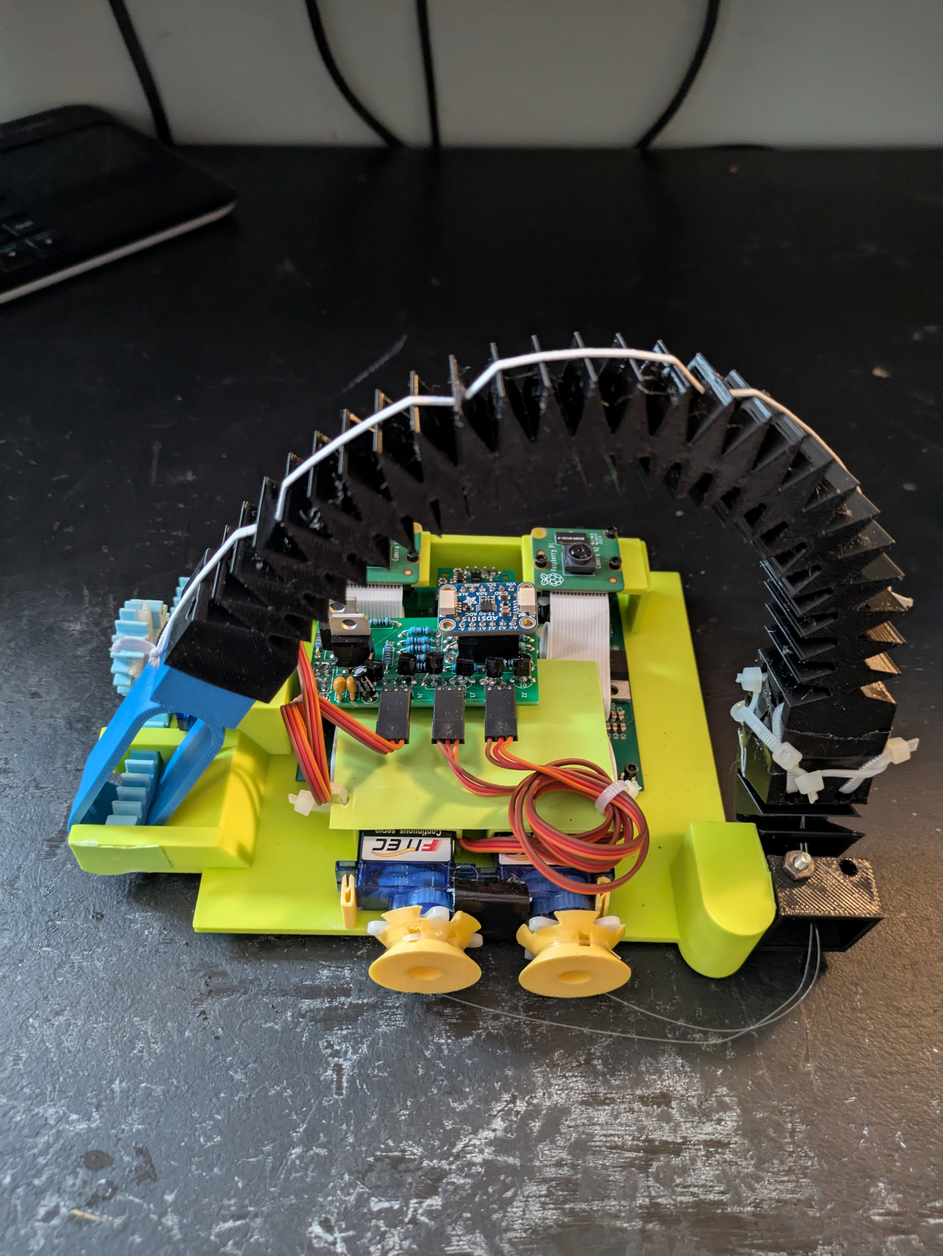
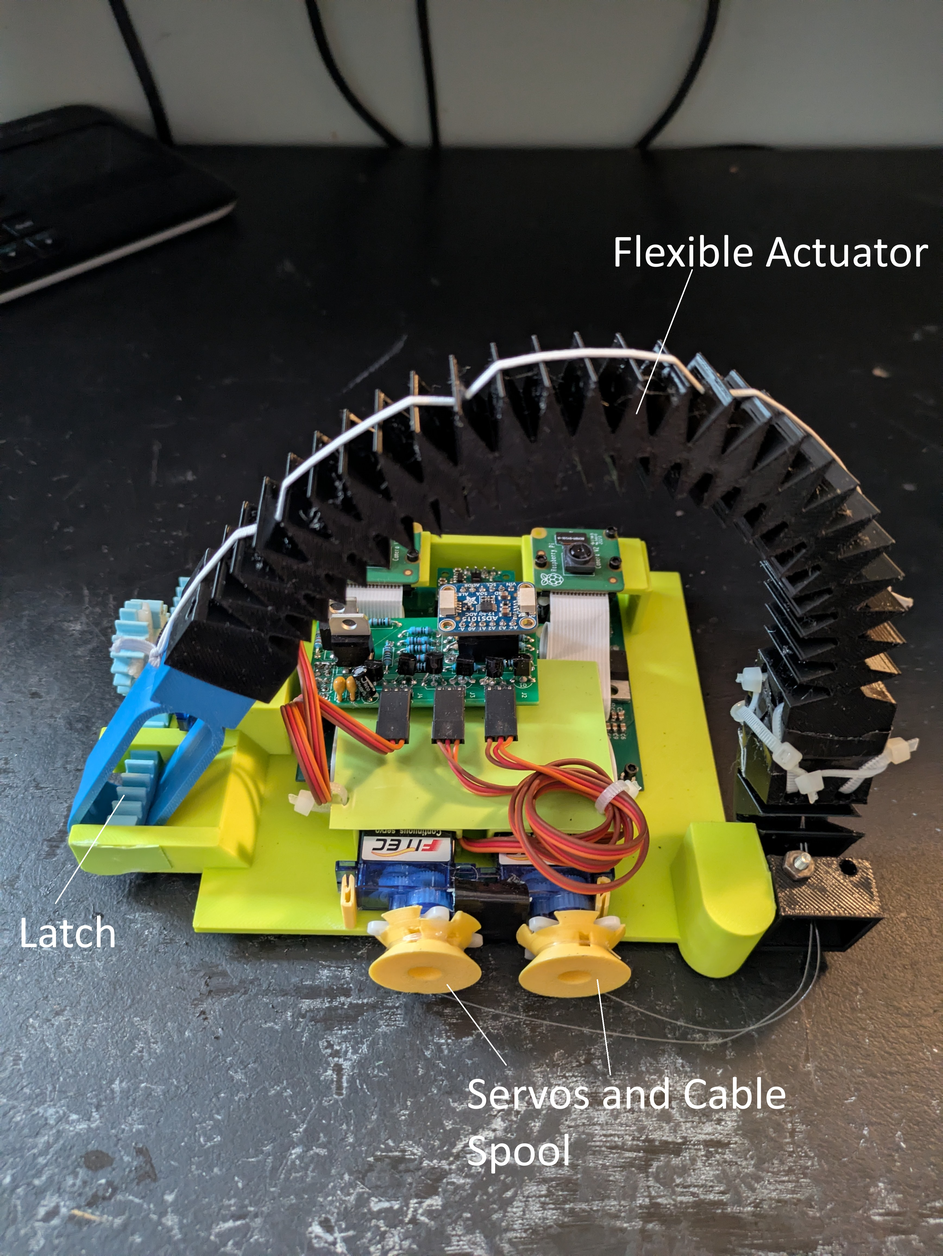
Label flex grasper images

diff --git a/sections/methods/hardware.tex b/sections/methods/hardware.tex
@@ -69,8 +69,9 @@ This concept was rejected due to concerns over available time and the author's l
 \end{figure}
 
 A similar concept that replaced the SMA mechanism with a cable-actuated flexible grasper was prototyped. The intent was that
-the grasper would wrap over a perch and into a latch similarly to the SMA device. This design was rejected because the hobby 
-servos used could not provide enough torque to bend the grasper as needed, 
+the grasper would wrap over a perch and into a latch similarly to the SMA device, but with a grasper 3D printed from thermoplastic
+polyurethane (TPU) filament and driven by servo motors via cables.
+This design was rejected because the hobby servos used could not provide enough torque to bend the grasper as needed, 
 and the flexibility combined with the elasticity of the cable drive prevented the device
 from achieving sufficient repeatability in position control. Fig. \ref{fig:latch-cable} shows this prototype device.
 
